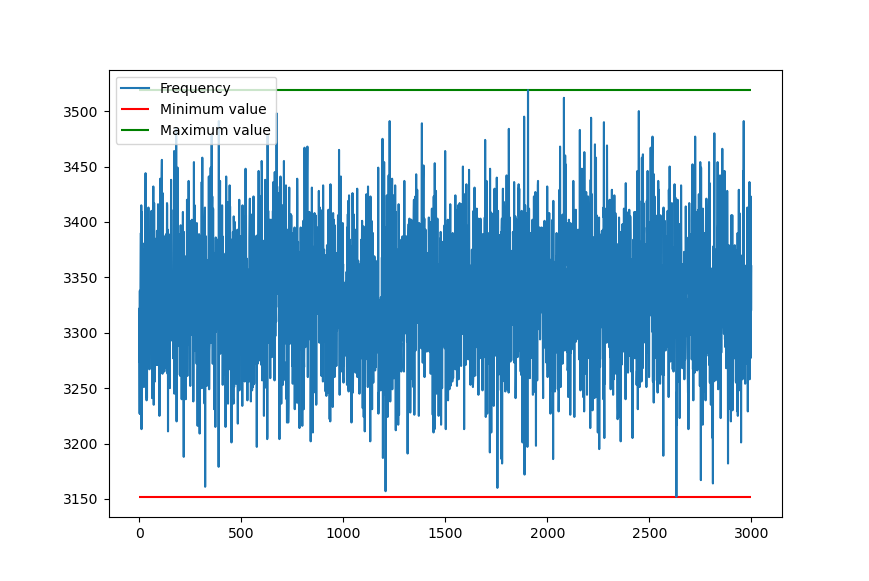
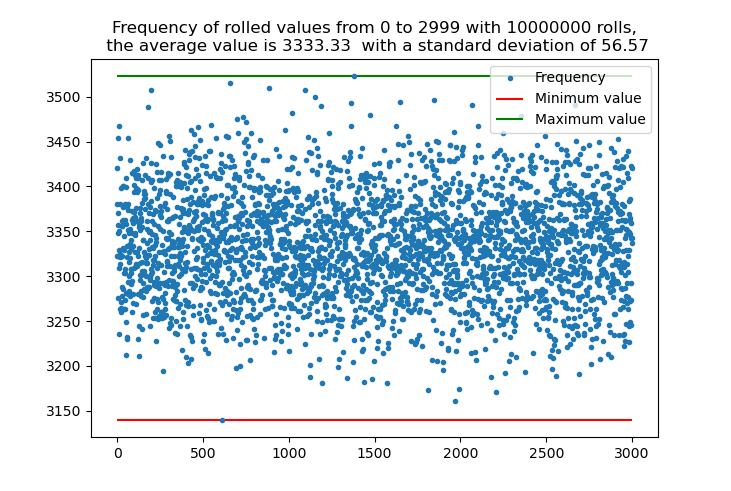
Add files via upload

Changed region(s): [[0.0602, 0.0305, 0.9029, 0.8554], [0.0602, 0.8248, 0.9029, 0.947], [0.0602, 0.7332, 0.1505, 0.7943]]

diff --git a/seedRoller_test.py b/seedRoller_test.py
@@ -114,11 +114,25 @@ print("Standard deviation of frequency divided by average  "
 print("Minimum of frequency: " + str(min(frequency_counter_d6)))
 print("Maximum of frequency: " + str(max(frequency_counter_d6)))
 
+# Adding average and standard deviation to the plot
+frequency_deviations_value = frequency_counter_d6 - average_frequency
+frequency_variance = np.average(frequency_deviations_value * frequency_deviations_value)
+frequency_standard_deviation = np.math.sqrt(frequency_variance)
+
 # Below we make the plot. 
 # An important thing to note here is that the minimum and maximum values
 # should show that no dice rolls where NOT rolled. If the minimum is zero,
 # the algorithm has failed to roll some values.
-plt.plot(frequency_counter_d6, label="Frequency")
+plt.plot(frequency_counter_d6,'.', label="Frequency")
+# plt.hlines(average_frequency, 0, 99, 'k', label="Average")
+# plt.hlines(average_frequency+frequency_standard_deviation, 0, 99, 'k') #, label="Average + standard deviation")
+# plt.hlines(average_frequency-frequency_standard_deviation, 0, 99, 'k', label="Standard deviation around average")
 plt.hlines(min(frequency_counter_d6), 0, len(frequency_counter_d6), 'r', label="Minimum value")
 plt.hlines(max(frequency_counter_d6), 0, len(frequency_counter_d6), 'g', label="Maximum value")
 plt.legend(loc="best")
+title = 'Frequency of rolled values from 0 to 2999 with %s' % no_rolls
+title += ' rolls,\n the average value is %.2f ' % average_frequency
+title += ' with a standard deviation of %.2f' %frequency_standard_deviation
+
+
+plt.title(title)
